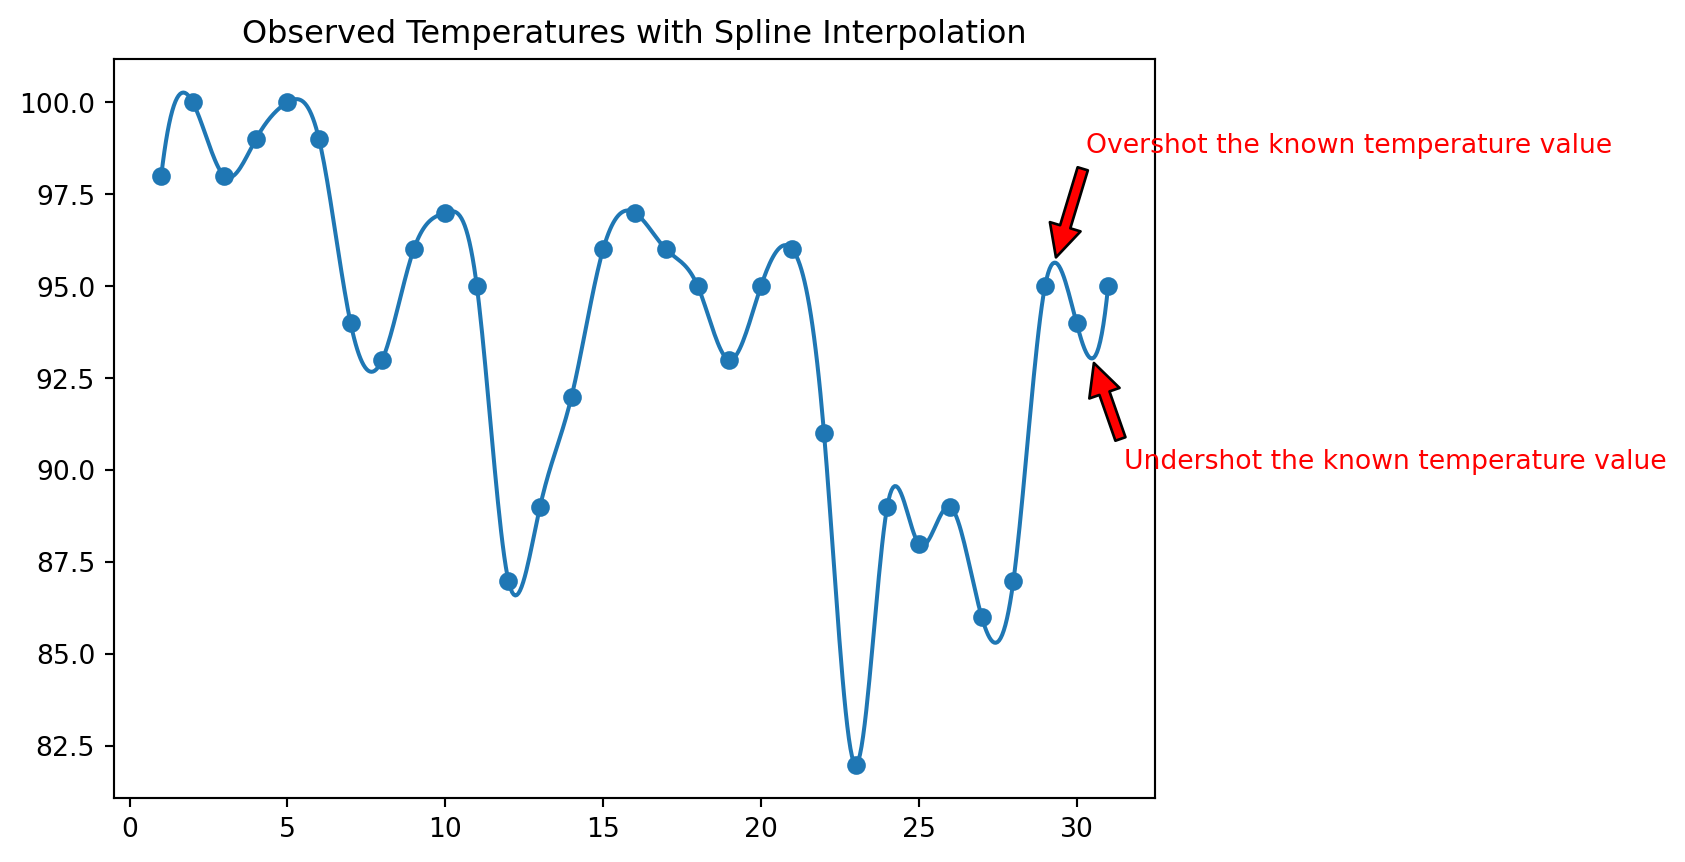
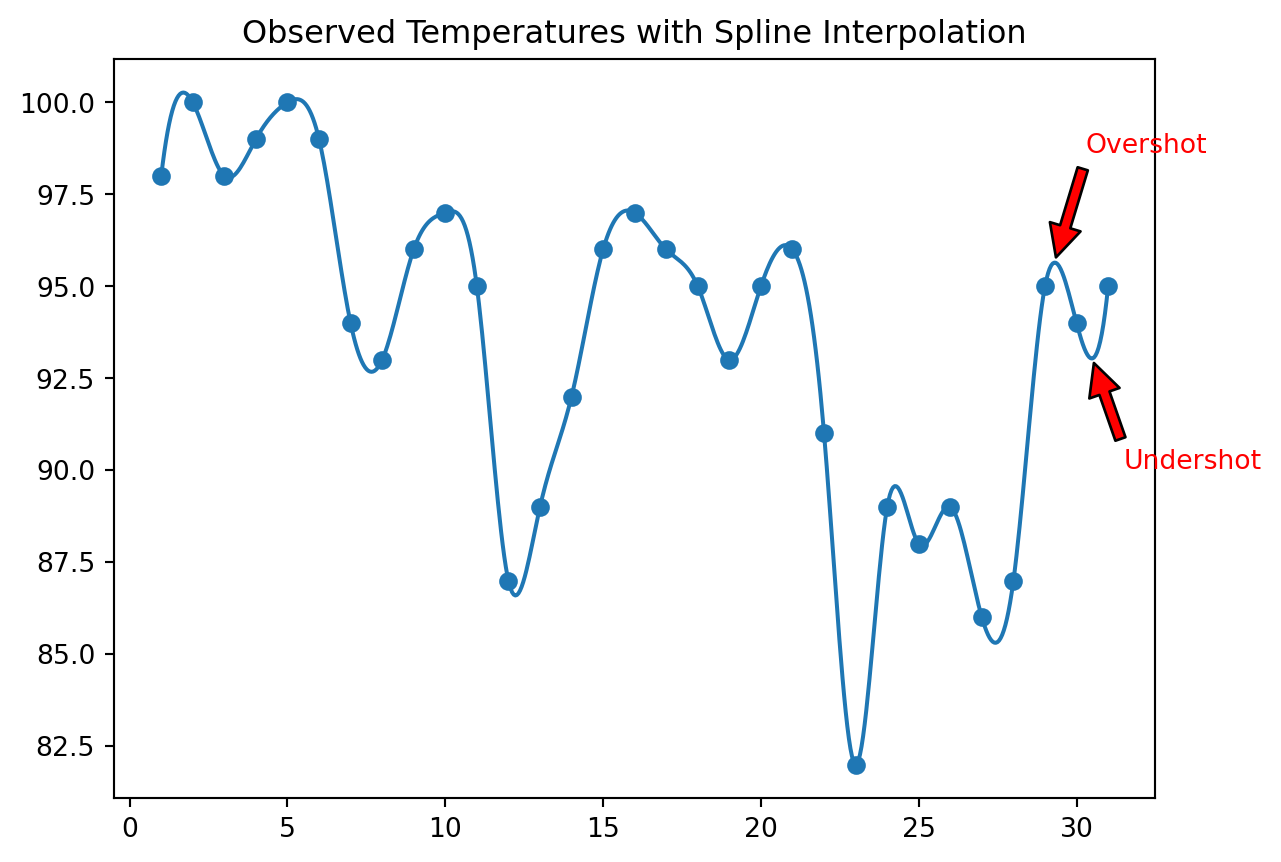
update spling and pchip post

diff --git a/docs/posts/2024-08-08-spline-pchip/index.html b/docs/posts/2024-08-08-spline-pchip/index.html
@@ -9,7 +9,7 @@
 <meta name="author" content="Matt Hodges">
 <meta name="dcterms.date" content="2024-08-08">
 
-<title>Connecting the Dots With Spline and PCHIP</title>
+<title>Spline Versus PCHIP</title>
 <style>
 code{white-space: pre-wrap;}
 span.smallcaps{font-variant: small-caps;}
@@ -56,17 +56,17 @@ ul.task-list li input[type="checkbox"] {
 <link href="https://fonts.googleapis.com/css?family=Overpass:300,900" rel="stylesheet">
 
 
-<meta property="og:title" content="Connecting the Dots With Spline and PCHIP">
-<meta property="og:description" content="Let’s break down some pros and cons of different smoothing and iterpolation techniques">
-<meta property="og:image" content="https://matthodges.com/posts/2024-08-08-spline-pchip/pchip-terminal.png">
+<meta property="og:title" content="Spline Versus PCHIP">
+<meta property="og:description" content="Sometimes you want a smooth curve. Sometimes you want a shape-preserving curve.">
+<meta property="og:image" content="https://matthodges.com/posts/2024-08-08-spline-pchip/pchip-annotated.png">
 <meta property="og:site_name" content="Matt Hodges">
-<meta property="og:image:height" content="1024">
-<meta property="og:image:width" content="1792">
-<meta name="twitter:title" content="Connecting the Dots With Spline and PCHIP">
-<meta name="twitter:description" content="Let’s break down some pros and cons of different smoothing and iterpolation techniques">
-<meta name="twitter:image" content="https://matthodges.com/posts/2024-08-08-spline-pchip/pchip-terminal.png">
-<meta name="twitter:image-height" content="1024">
-<meta name="twitter:image-width" content="1792">
+<meta property="og:image:height" content="862">
+<meta property="og:image:width" content="1281">
+<meta name="twitter:title" content="Spline Versus PCHIP">
+<meta name="twitter:description" content="Sometimes you want a smooth curve. Sometimes you want a shape-preserving curve.">
+<meta name="twitter:image" content="https://matthodges.com/posts/2024-08-08-spline-pchip/pchip-annotated.png">
+<meta name="twitter:image-height" content="862">
+<meta name="twitter:image-width" content="1281">
 <meta name="twitter:card" content="summary_large_image">
 </head>
 
@@ -117,8 +117,8 @@ ul.task-list li input[type="checkbox"] {
 <header id="title-block-header" class="quarto-title-block default page-columns page-full">
   <div class="quarto-title-banner page-columns page-full">
     <div class="quarto-title column-body">
-      <h1 class="title">Connecting the Dots With Spline and PCHIP</h1>
-            <p class="subtitle lead">Let’s break down some pros and cons of different smoothing and iterpolation techniques</p>
+      <h1 class="title">Spline Versus PCHIP</h1>
+            <p class="subtitle lead">Sometimes you want a smooth curve. Sometimes you want a shape-preserving curve.</p>
                       </div>
   </div>
     
@@ -156,8 +156,8 @@ ul.task-list li input[type="checkbox"] {
 
 
 
-<p>Let’s say you’ve got some data points and you want to plot them:</p>
-<div id="f76b981a" class="cell" data-execution_count="2">
+<p>Let’s say you’ve got some data points and you make a scatterplot:</p>
+<div id="d66f46a9" class="cell" data-execution_count="1">
 <div class="cell-output cell-output-display">
 <div>
 <figure class="figure">
@@ -167,7 +167,7 @@ ul.task-list li input[type="checkbox"] {
 </div>
 </div>
 <p>You might say <em>great!</em> and call it a day. But what if we want to see the behavior of the data between these points? Linear interpolation is a simple way to connect the dots:</p>
-<div id="43d2226a" class="cell" data-execution_count="3">
+<div id="fc1efcb8" class="cell" data-execution_count="2">
 <div class="cell-output cell-output-display">
 <div>
 <figure class="figure">
@@ -177,7 +177,7 @@ ul.task-list li input[type="checkbox"] {
 </div>
 </div>
 <p>And now at this point you might say <em>great!</em> and call it a day. Or, you might decide that you can do better than linear interpolation. That sure does look like a sine curve. But you’re working with a collection of discrete points, and you wouldn’t want to erroneously just plot a sine function. Instead, you can reach for a smoother interpolation function, such as a spline:</p>
-<div id="7cabf09d" class="cell" data-execution_count="4">
+<div id="8b393c02" class="cell" data-execution_count="3">
 <div class="cell-output cell-output-display">
 <div>
 <figure class="figure">
@@ -187,7 +187,7 @@ ul.task-list li input[type="checkbox"] {
 </div>
 </div>
 <p>The term “spline” refers to a wide class of functions involving interpolation and smoothing. In data viz, we often see the basis spline (or, B-spline). Think of spline interpolation like a flexible ruler that bends to pass smoothly through all your data points, but in doing so, it might sometimes bend too much or too little. Sometimes the spline overshoots, introducing peaks or valleys that weren’t there in the original data.</p>
-<div id="7d89d1b6" class="cell" data-execution_count="5">
+<div id="81f91b84" class="cell" data-execution_count="4">
 <div class="cell-output cell-output-display">
 <div>
 <figure class="figure">
@@ -198,7 +198,7 @@ ul.task-list li input[type="checkbox"] {
 </div>
 <p>Sometimes this is okay! Depending on your data, a spline may be ideal for generating a very smooth curve, especially when smoothness is more critical than accurately interpolating between every data point. And when the underlying function is oscillatory, a spline can capture the movement between points quite accurately. But real-world data is often not oscillatory.</p>
 <p>Let’s say you’ve got a month’s worth of <a href="https://matthodges.com/posts/2024-07-30-austin-hot-or-not/">observed temperatures recorded in the Austin area</a>:</p>
-<div id="5a445d02" class="cell" data-execution_count="6">
+<div id="b84d1d73" class="cell" data-execution_count="5">
 <div class="cell-output cell-output-display">
 <div>
 <figure class="figure">
@@ -208,7 +208,7 @@ ul.task-list li input[type="checkbox"] {
 </div>
 </div>
 <p>And because temperatures exist on a continuous distribution, we could do a simple linear interpolation to articulate the rates of change between points:</p>
-<div id="4908c756" class="cell" data-execution_count="7">
+<div id="04fe14ff" class="cell" data-execution_count="6">
 <div class="cell-output cell-output-display">
 <div>
 <figure class="figure">
@@ -218,7 +218,7 @@ ul.task-list li input[type="checkbox"] {
 </div>
 </div>
 <p>But temperatures are unlikely to ascend or descend on linear gradients, so we could also try a spline:</p>
-<div id="6aa76b69" class="cell" data-execution_count="8">
+<div id="da2c40fd" class="cell" data-execution_count="7">
 <div class="cell-output cell-output-display">
 <div>
 <figure class="figure">
@@ -228,18 +228,18 @@ ul.task-list li input[type="checkbox"] {
 </div>
 </div>
 <p>That’s a bit more natural, but it looks a bit weird, too. Unlike our sine wave sampling from before, the data points here are of real, observed, daily maximum temperatures. So it’s a little strange that the fit curve overshoots and undershoots those known values. The interpolation is smooth, but the shape of the data has not been preserved.</p>
-<div id="b17b4a3c" class="cell" data-execution_count="9">
+<div id="3a46d124" class="cell" data-execution_count="8">
 <div class="cell-output cell-output-display">
 <div>
 <figure class="figure">
-<p><img src="index_files/figure-html/cell-9-output-1.png" width="843" height="431" class="figure-img"></p>
+<p><img src="index_files/figure-html/cell-9-output-1.png" width="641" height="431" class="figure-img"></p>
 </figure>
 </div>
 </div>
 </div>
 <p>While a spline produces smooth curves, the artifacts of overshooting, undershooting, or unwanted oscillations between data points can misrepresent what the data actually says. Fortunately, we have another option: the PCHIP, or Piecewise Cubic Hermite Interpolating Polynomial. <a href="https://en.wikipedia.org/wiki/Charles_Hermite">Hermite</a> refers to a method of interpolating data points where both the function values and the derivatives at those points are matched.</p>
 <p>A PCHIP preserves the shape of the data and avoids oscillations. The monotonicity (increasing or decreasing trend) of the data is preserved, ensuring no overshoots between data points. I like to think of PCHIP as a hand that firmly (but not rigidly) guides a curve through the data points without allowing any unnecessary dips or rises.</p>
-<div id="d33da1a3" class="cell" data-execution_count="10">
+<div id="38904c36" class="cell" data-execution_count="9">
 <div class="cell-output cell-output-display">
 <div>
 <figure class="figure">
@@ -250,7 +250,7 @@ ul.task-list li input[type="checkbox"] {
 </div>
 <p>Looks good! This results in a curve that better captures the shape of the function, especially when the slope information is critical. In our case, the slope is critical. It makes no sense to have a positive slope (overshooting) between points, when the next value decreased.</p>
 <p>But PCHIP isn’t always better than Spline. Let’s apply a PCHIP interpolation to the oscillating data from before:</p>
-<div id="e11443a8" class="cell" data-execution_count="11">
+<div id="57c95970" class="cell" data-execution_count="10">
 <div class="cell-output cell-output-display">
 <div>
 <figure class="figure">

diff --git a/docs/posts.html b/docs/posts.html
@@ -214,18 +214,18 @@ window.Quarto = {
     </div>
 </div>
 <div class="list quarto-listing-default">
-<div class="quarto-post image-right" data-index="0" data-listing-date-sort="1723093200000" data-listing-file-modified-sort="1723177687258" data-listing-date-modified-sort="NaN" data-listing-reading-time-sort="7" data-listing-word-count-sort="1213">
+<div class="quarto-post image-right" data-index="0" data-listing-date-sort="1723093200000" data-listing-file-modified-sort="1723208009000" data-listing-date-modified-sort="NaN" data-listing-reading-time-sort="7" data-listing-word-count-sort="1204">
 <div class="thumbnail">
 <p><a href="./posts/2024-08-08-spline-pchip/index.html" class="no-external"></a></p><a href="./posts/2024-08-08-spline-pchip/index.html" class="no-external">
-<p><img loading="lazy" src="./posts/2024-08-08-spline-pchip/pchip-terminal.png" class="thumbnail-image"></p>
+<p><img loading="lazy" src="./posts/2024-08-08-spline-pchip/pchip-annotated.png" class="thumbnail-image"></p>
 </a><p><a href="./posts/2024-08-08-spline-pchip/index.html" class="no-external"></a></p>
 </div>
 <div class="body">
 <h3 class="no-anchor listing-title">
-<a href="./posts/2024-08-08-spline-pchip/index.html" class="no-external">Connecting the Dots With Spline and PCHIP</a>
+<a href="./posts/2024-08-08-spline-pchip/index.html" class="no-external">Spline Versus PCHIP</a>
 </h3>
 <div class="listing-subtitle">
-<a href="./posts/2024-08-08-spline-pchip/index.html" class="no-external">Let’s break down some pros and cons of different smoothing and iterpolation techniques</a>
+<a href="./posts/2024-08-08-spline-pchip/index.html" class="no-external">Sometimes you want a smooth curve. Sometimes you want a shape-preserving curve.</a>
 </div>
 </div>
 <div class="metadata">
